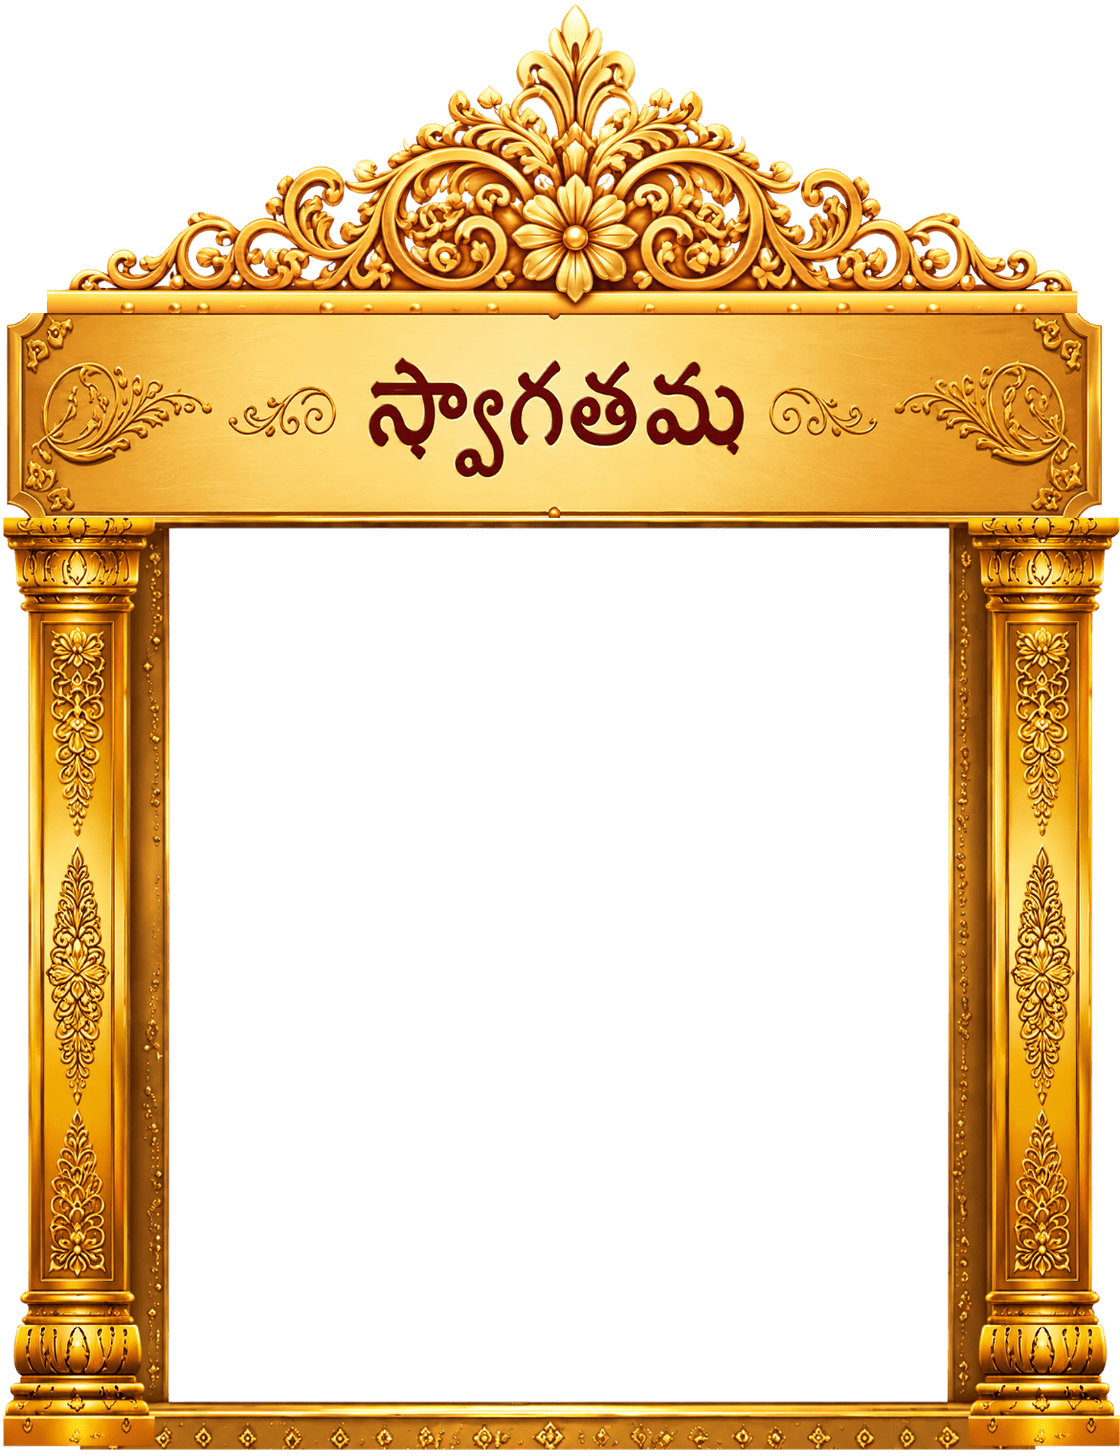
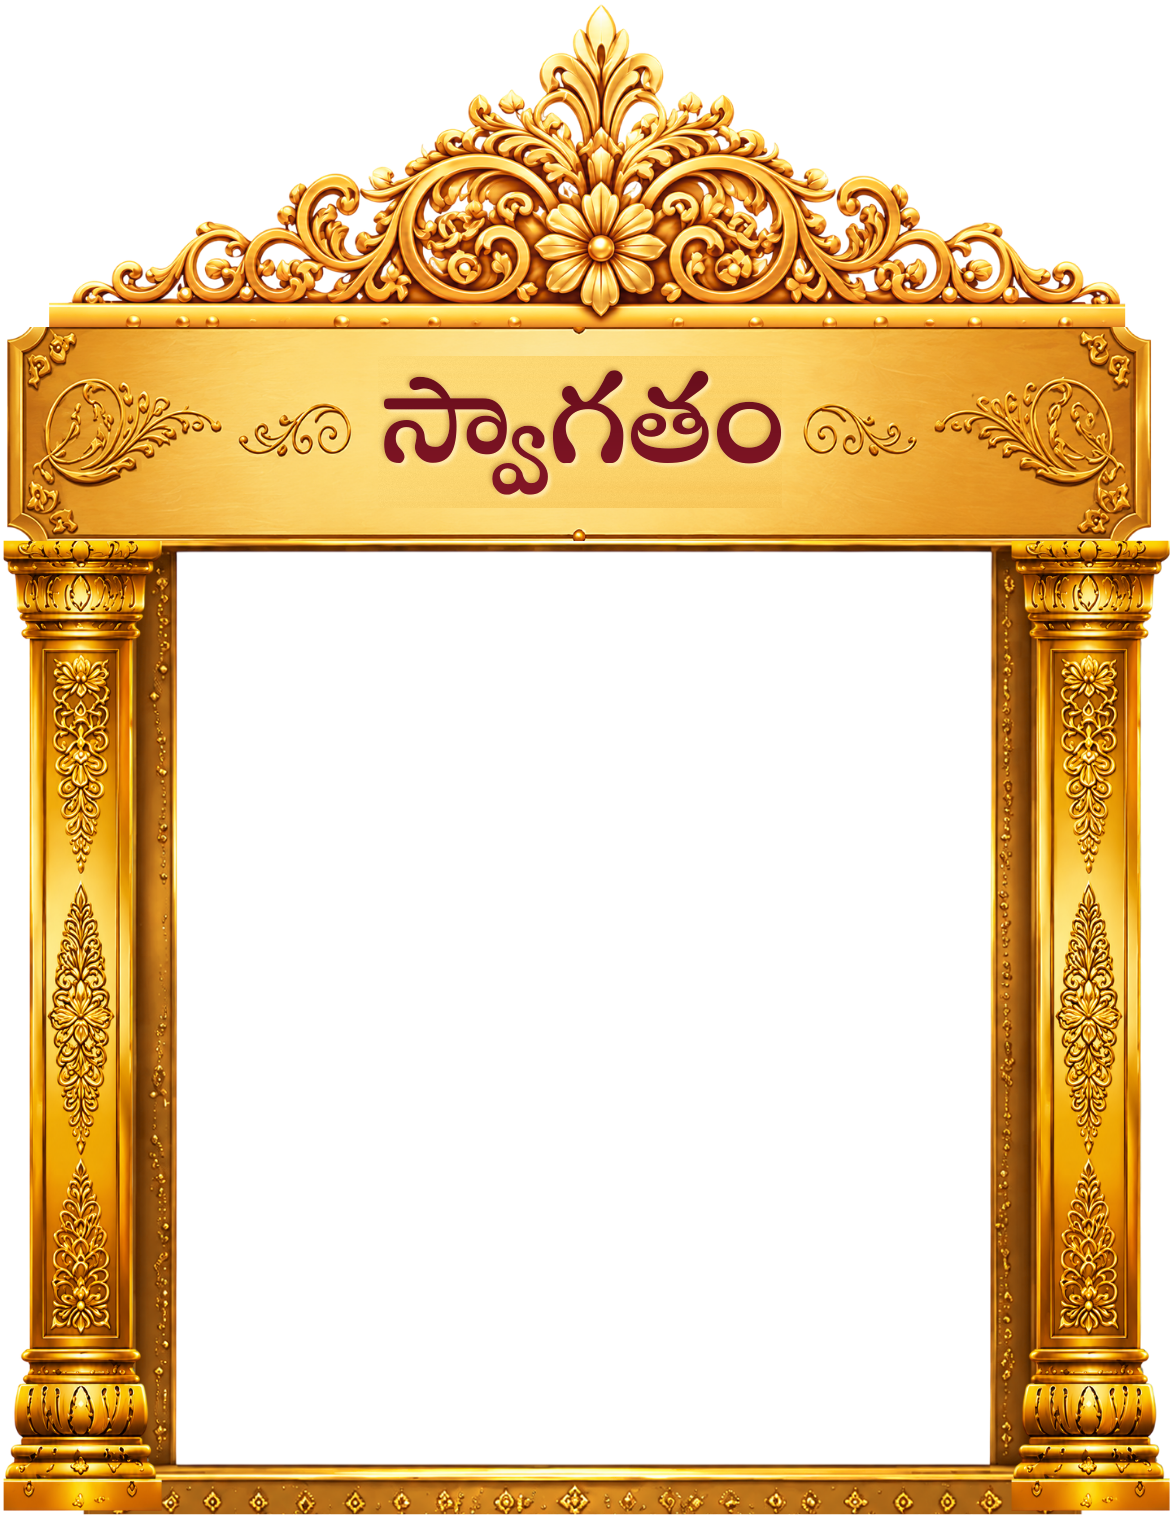
rsvp fixes

Changed region(s): [[0.3125, 0.2163, 0.6875, 0.34], [0.9062, 0.649, 0.9375, 0.7109], [0.0625, 0.649, 0.0938, 0.6799]]

diff --git a/index.html b/index.html
@@ -722,7 +722,7 @@ a{ color:inherit; }
   .hero-tagline{
     margin-top:0.5rem; font-size:0.88rem; letter-spacing:0.14em; font-style:italic;
     font-family:'Cormorant Garamond', serif; color:var(--gold-soft);
-    opacity:0; animation:rise 1s ease forwards 1.1s;
+    opacity:1; animation:rise 1s ease forwards 1.1s; font-weight:500;
   }
   @keyframes rise{ from{ opacity:0; transform:translateY(18px);} to{ opacity:1; transform:translateY(0);} }
 
@@ -732,10 +732,11 @@ a{ color:inherit; }
     display:flex; align-items:center; justify-content:center; gap:0.9rem;
     opacity:0; animation:rise 1s ease forwards 1.25s;
   }
+
   .cd-title{
-    font-family:'Cormorant Garamond', serif; font-weight:600;
-    font-size:clamp(0.95rem, 2.4vw, 1.2rem);
-    letter-spacing:0.24em; text-transform:uppercase; text-indent:0.24em;
+    font-family:'Cormorant Garamond', serif; font-weight:700;
+    font-size:clamp(1.55rem, 7.4vw, 1.9rem);
+    text-indent:0.24em;
     color:var(--maroon); white-space:nowrap;
   }
   .cd-flourish{ width:clamp(48px, 12vw, 90px); height:auto; flex:none; }
@@ -1029,10 +1030,12 @@ a{ color:inherit; }
      above rather than floating in a separate patch of empty page */
   #rsvp{ text-align:center; padding-bottom:1vh; }
   form{ max-width:760px; margin:1.6rem auto 0; display:flex; flex-direction:column; gap:1.1rem; }
-  .rsvp-grid{ display:grid; grid-template-columns:1fr 1fr; gap:1.8rem; text-align:left; }
+  /* Since the phone + attendance pills came out, the two-column split left a
+     lone name box next to a tall textarea. Stacked instead: name spans the
+     full plate, the note sits on the line below it. */
+  .rsvp-grid{ display:grid; grid-template-columns:1fr; gap:1.3rem; text-align:left; }
   .rsvp-col{ display:flex; flex-direction:column; gap:0.9rem; }
   .rsvp-col textarea{ flex:1; min-height:120px; }
-  @media (max-width:640px){ .rsvp-grid{ grid-template-columns:1fr; } }
   input, textarea{
     font-family:'Jost', sans-serif; font-size:0.95rem;
     padding:0.85rem 1rem; border:1px solid var(--line); background:#fffdf7;
@@ -1500,7 +1503,7 @@ a{ color:inherit; }
   font-weight:700;
   }
   /* { letter-spacing:0.26em; text-indent:0.26em; font-weight:700;} */
-  .parent-card .names{ font-size:1.28rem; }
+  .parent-card .names{font-family:'Cormorant Garamond', serif; font-size:1.28rem; opacity:0.9; font-weight:700; color:var(--ink);}
 
   /* the venue card echoes the arch — this is a kalyana mandapam, after all */
   .venue-card{
@@ -1517,7 +1520,7 @@ a{ color:inherit; }
   /* countdown: a gold cartouche */
   .cd-frame{ border-radius:14px; padding:0.55rem; }
   .cd-frame::before, .cd-frame::after{ display:none; }   /* replaced by rosettes */
-  .cd-title{ letter-spacing:0.28em; text-indent:0.28em; }
+  .cd-title{text-indent:0.28em; }
   .cd-col + .cd-col::before{
     background:linear-gradient(180deg, transparent, rgba(192,138,44,0.55) 20%,
                                        rgba(192,138,44,0.55) 80%, transparent);
@@ -2283,7 +2286,7 @@ a{ color:inherit; }
   @media (max-width:560px){
     .names-block, .section-head, .parents-grid{ position:relative; z-index:2; }
     .section-title, .names{
-      text-shadow:0 0 18px var(--ivory), 0 0 34px var(--ivory);
+      text-shadow:0 0 18px var(--ivory), 0 0 34px var(--ivory); 
     }
   }
 </style>
@@ -2582,17 +2585,6 @@ a{ color:inherit; }
       <div class="rsvp-col">
         <div class="field-label">Guest Details</div>
         <input type="text" id="rsvp-name" placeholder="Your name" required>
-        <input type="tel" id="rsvp-phone" placeholder="Phone (e.g. +91 98765 43210)"
-               inputmode="tel" autocomplete="tel"
-               pattern="\+?[0-9][0-9\s\-]{7,15}"
-               title="Enter digits only, with country code — e.g. +91 98765 43210">
-        <div class="field-error" id="phone-error" aria-live="polite"></div>
-
-        <div class="field-label">Will you be joining us?</div>
-        <div class="pill-group" data-group="rsvp-status">
-          <div class="pill">Joyfully Accept</div>
-          <div class="pill">Regretfully Decline</div>
-        </div>
       </div>
       <div class="rsvp-col">
         <div class="field-label">Leave us a note</div>
@@ -2692,8 +2684,8 @@ const CONFIG = {
   // An event only needs its own venue fields if it happens somewhere else.
   mainVenue: {
     name: "TTD Kalyana Mandapam",
-    area: "Buckinghampeta, Vijayawada",
-    address: "CR Rao Marg, Buckinghampeta, Vijayawada, Andhra Pradesh 520010",
+    area: "Vijayawada",
+    address: "CR Rao Marg, Vijayawada, Andhra Pradesh 520010",
     mapUrl: "https://maps.app.goo.gl/rR64eHxnFE3RLSVs6"
   },
 
@@ -2996,29 +2988,8 @@ document.querySelectorAll('.pill-group').forEach(group => {
 });
 
 /* ---- RSVP form (front-end only) ---- */
-/* ---- Phone: accept only a leading + and digits (spaces/dashes allowed) ---- */
-const phoneInput = document.getElementById('rsvp-phone');
-const phoneError = document.getElementById('phone-error');
-phoneInput.addEventListener('input', () => {
-  // strip anything that isn't a digit, space, dash, or a single leading +
-  let v = phoneInput.value.replace(/[^\d\s+-]/g, '');
-  v = v.replace(/(?!^)\+/g, '');          // '+' only allowed at the very start
-  phoneInput.value = v;
-  phoneError.textContent = '';            // clear the message as they correct it
-});
-
 document.getElementById('rsvp-form').addEventListener('submit', function(e){
   e.preventDefault();
-
-  // Require a country code (leading +) and 8–15 digits.
-  const digits = phoneInput.value.replace(/\D/g, '');
-  if (phoneInput.value && (!phoneInput.value.trim().startsWith('+') || digits.length < 8 || digits.length > 15)) {
-    phoneError.textContent = 'Please enter a valid phone number with country code, e.g. +91 98765 43210';
-    phoneInput.focus();
-    return;
-  }
-
-  const selectedPill = this.querySelector('.pill-group .pill.selected');
 
   /* Send the RSVP to the Google Sheet. Uses mode:'no-cors' + a
      text/plain body on purpose: Apps Script web apps don't return CORS
@@ -3034,8 +3005,11 @@ document.getElementById('rsvp-form').addEventListener('submit', function(e){
       body: JSON.stringify({
         type: 'rsvp',
         name: document.getElementById('rsvp-name').value,
-        phone: phoneInput.value,
-        status: selectedPill ? selectedPill.textContent : '',
+        /* phone + status fields were removed from the form. The keys are kept
+           (empty) so the existing Google Sheet column order stays intact —
+           delete these two lines if you also trim the columns in the sheet. */
+        phone: '',
+        status: '',
         message: document.getElementById('rsvp-message').value
       })
     }).catch(() => { /* fail silently — still show thank-you below */ });
